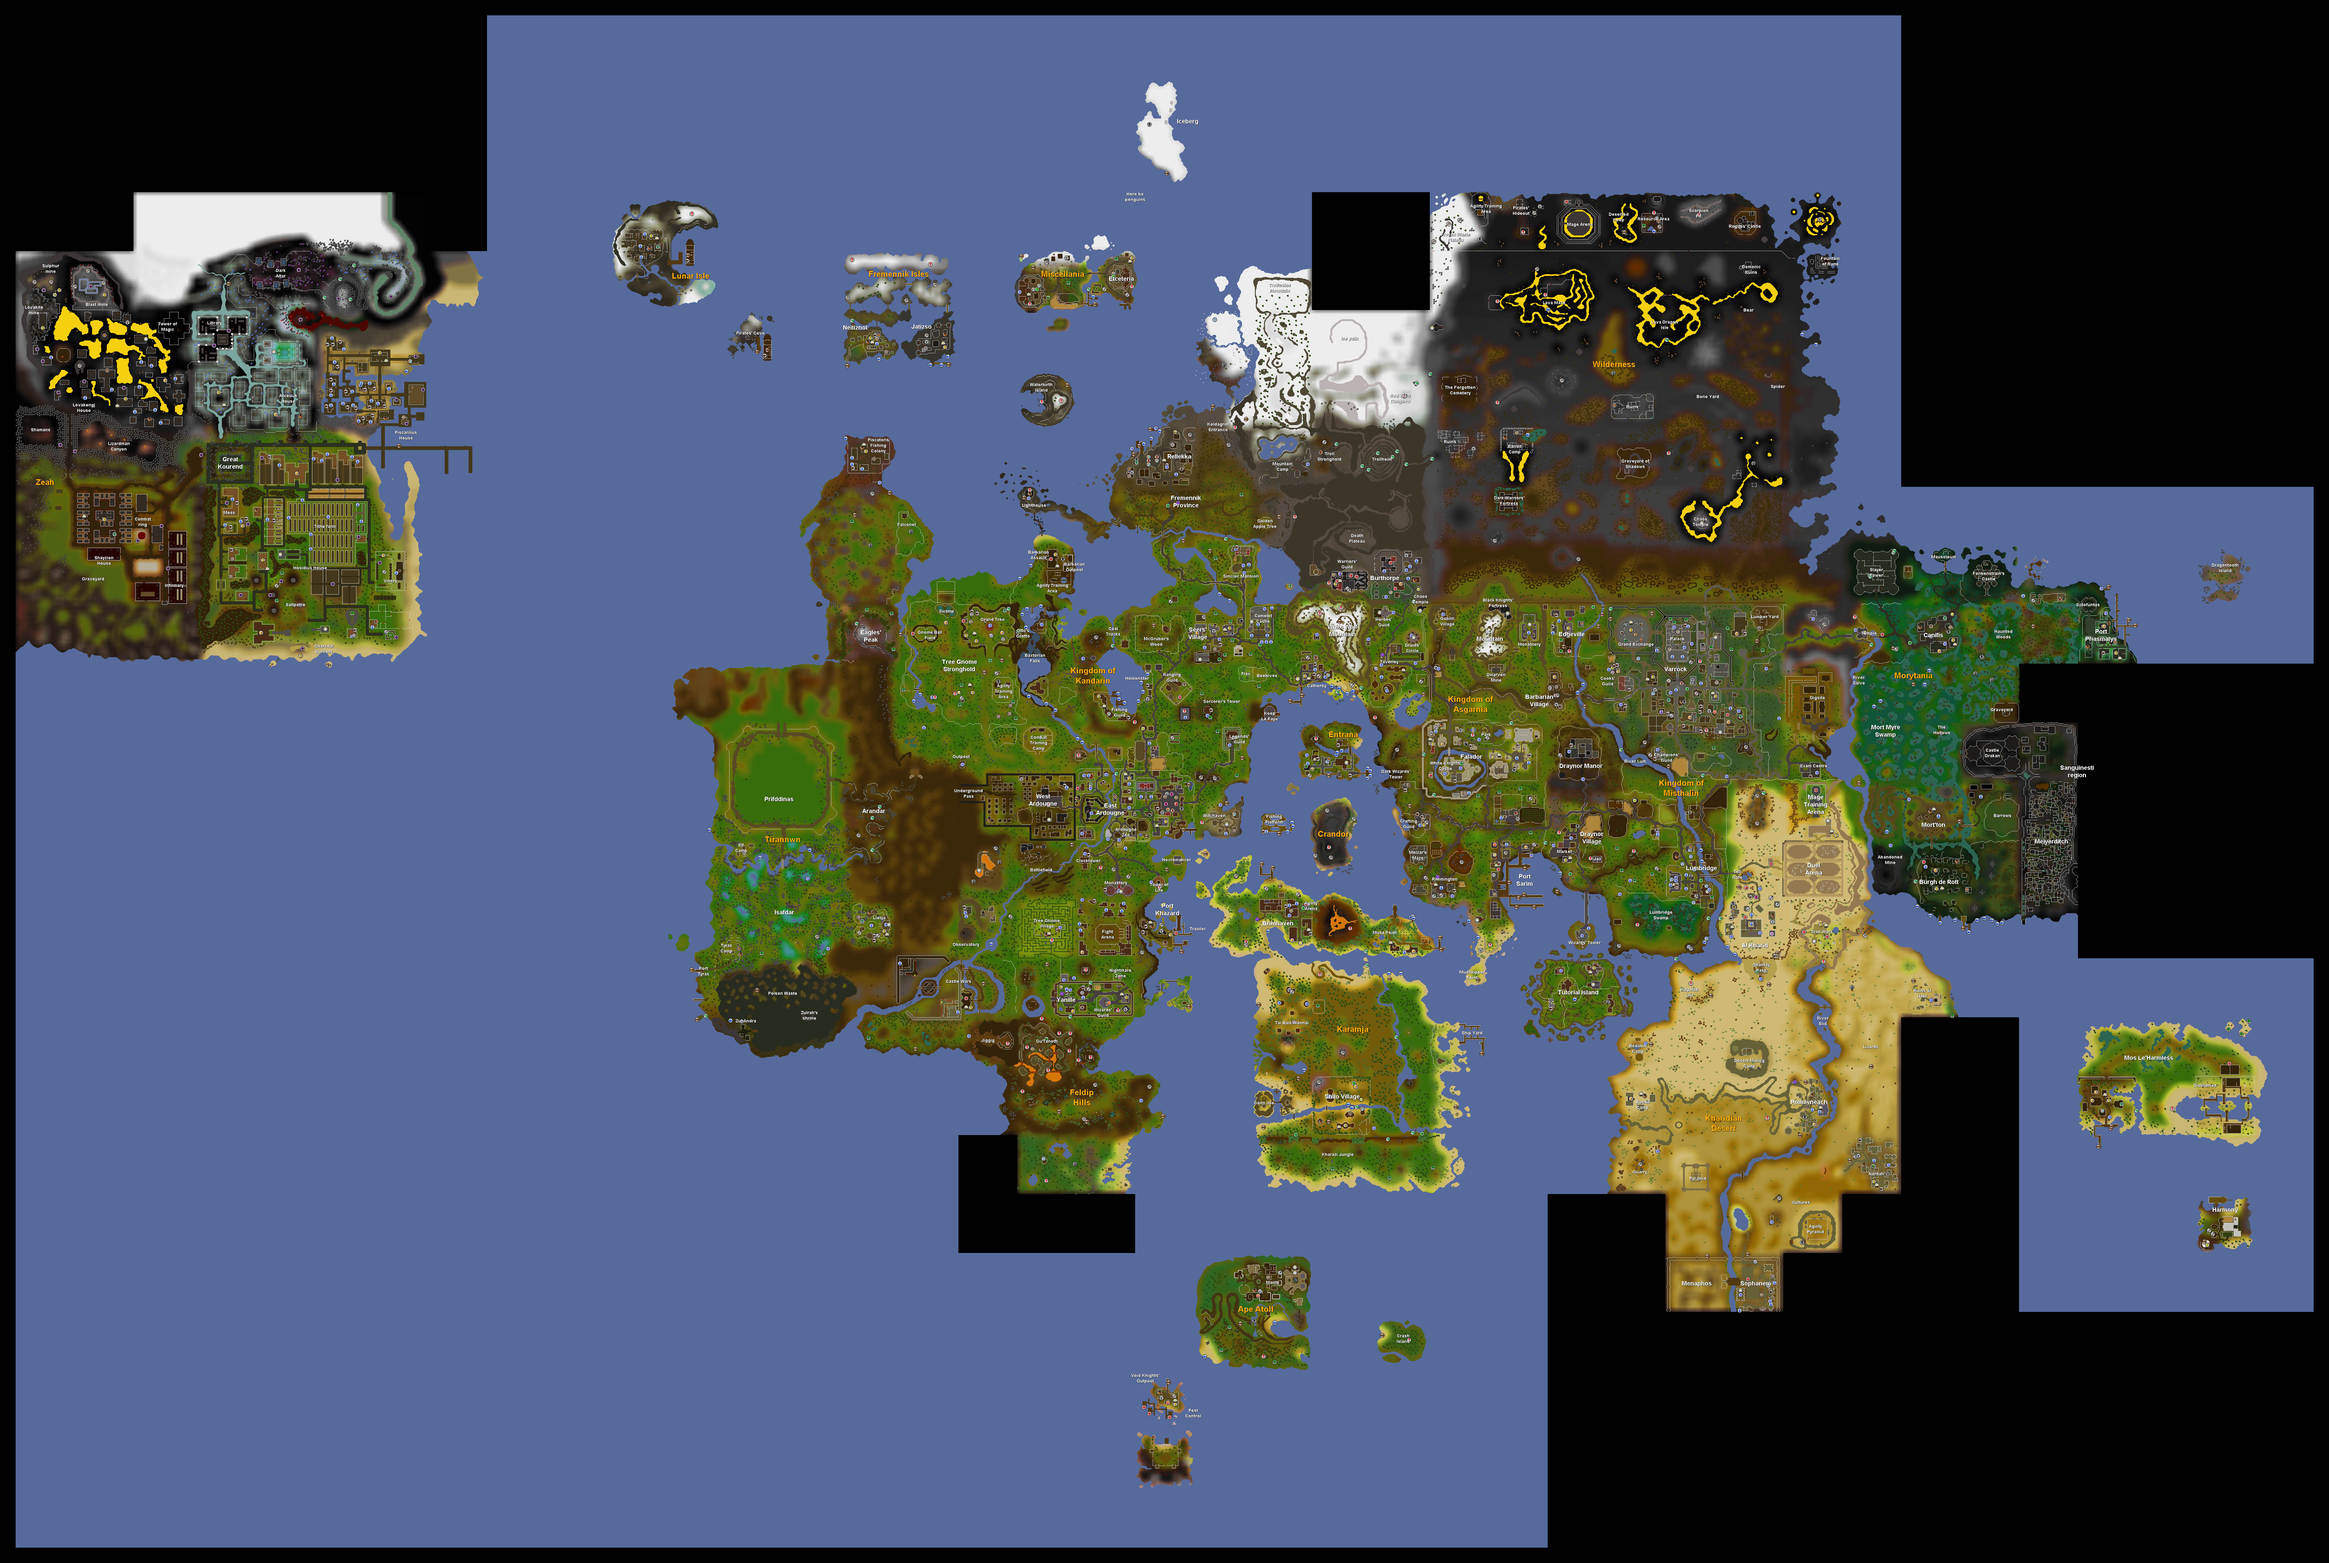
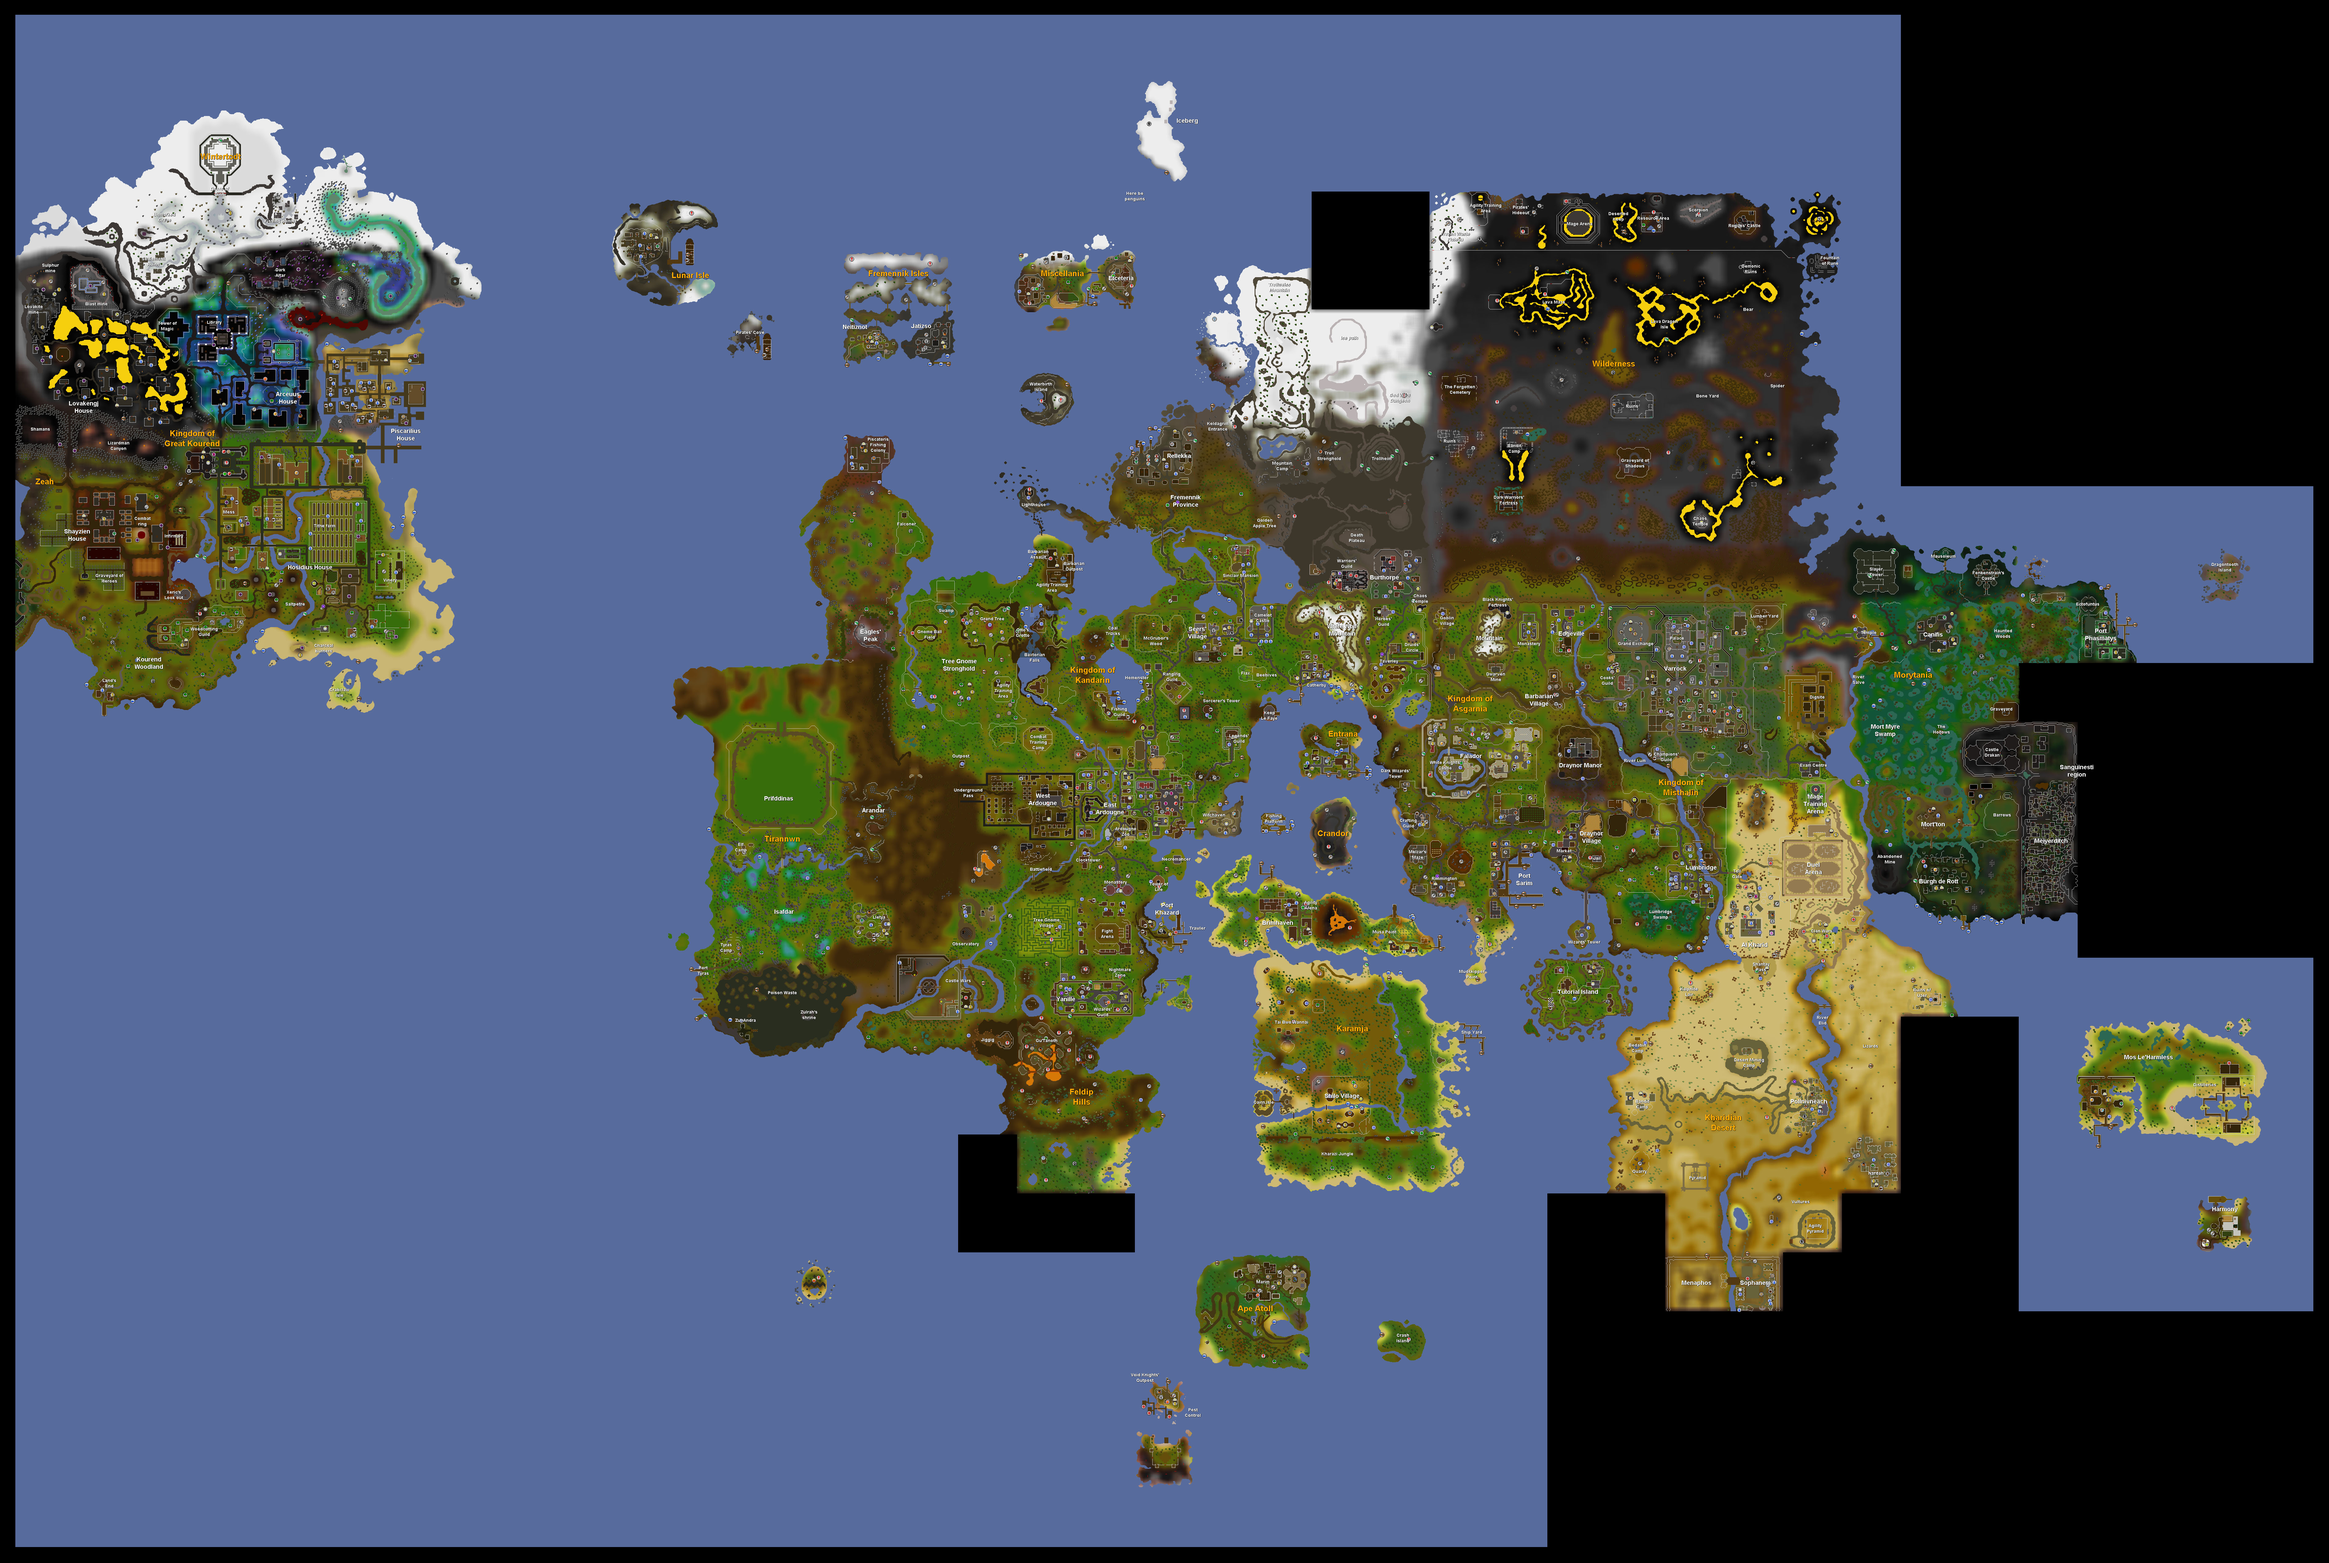
Updated the worldmap

diff --git a/app/src/main/java/com/infonuascape/osrshelper/views/HiscoresDialogFragment.java b/app/src/main/java/com/infonuascape/osrshelper/views/HiscoresDialogFragment.java
@@ -2,6 +2,7 @@ package com.infonuascape.osrshelper.views;
 
 import java.text.NumberFormat;
 
+import android.annotation.SuppressLint;
 import android.app.Dialog;
 import android.app.DialogFragment;
 import android.os.Bundle;
@@ -22,34 +23,35 @@ import com.infonuascape.osrshelper.utils.SkillsEnum.SkillType;
 public class HiscoresDialogFragment extends DialogFragment implements OnClickListener  {
 	private Skill skill;
 
+	public HiscoresDialogFragment() {
+	}
+
+	@SuppressLint("ValidFragment")
 	public HiscoresDialogFragment(Skill skill){
 		this.skill = skill;
 	}
 
-	/**
-	 * The system calls this to get the DialogFragment's layout, regardless of
-	 * whether it's being displayed as a dialog or an embedded fragment.
-	 */
 	@Override
 	public View onCreateView(LayoutInflater inflater, ViewGroup container, Bundle savedInstanceState) {
-		// Inflate the layout to use as dialog or embedded fragment
 		View v = inflater.inflate(R.layout.hiscores_dialog, container, false);
 
 		v.findViewById(R.id.container).setOnClickListener(this);
 		v.findViewById(R.id.dialog_container).setOnClickListener(this);
 
-		((TextView) v.findViewById(R.id.skill_name)).setText(skill.getSkillType().toString());
-		((TextView) v.findViewById(R.id.skill_name)).setCompoundDrawablesWithIntrinsicBounds(skill.getDrawableInt(), 0, 0, 0);
+		if(skill != null) {
+			((TextView) v.findViewById(R.id.skill_name)).setText(skill.getSkillType().toString());
+			((TextView) v.findViewById(R.id.skill_name)).setCompoundDrawablesWithIntrinsicBounds(skill.getDrawableInt(), 0, 0, 0);
 
 
-		((TextView) v.findViewById(R.id.skill_lvl)).setText(getString(R.string.level) + " : " + skill.getLevel());
-		((TextView) v.findViewById(R.id.skill_exp)).setText(getString(R.string.xp) + " : " +  NumberFormat.getInstance().format(skill.getExperience()));
-		if(skill.getSkillType() != SkillType.Overall && skill.getLevel() != 99){
-			((TextView) v.findViewById(R.id.skill_exp_to_lvl)).setText(getString(R.string.xp_to_lvl) + " : " +  NumberFormat.getInstance().format(Utils.getXPToLvl(skill.getLevel() + 1) - skill.getExperience()));
-		} else{
-			((TextView) v.findViewById(R.id.skill_exp_to_lvl)).setText("");
+			((TextView) v.findViewById(R.id.skill_lvl)).setText(getString(R.string.level) + " : " + skill.getLevel());
+			((TextView) v.findViewById(R.id.skill_exp)).setText(getString(R.string.xp) + " : " + NumberFormat.getInstance().format(skill.getExperience()));
+			if (skill.getSkillType() != SkillType.Overall && skill.getLevel() != 99) {
+				((TextView) v.findViewById(R.id.skill_exp_to_lvl)).setText(getString(R.string.xp_to_lvl) + " : " + NumberFormat.getInstance().format(Utils.getXPToLvl(skill.getLevel() + 1) - skill.getExperience()));
+			} else {
+				((TextView) v.findViewById(R.id.skill_exp_to_lvl)).setText("");
+			}
 		}
-		
+
 		return v;
 	}
 
@@ -66,7 +68,6 @@ public class HiscoresDialogFragment extends DialogFragment implements OnClickLis
 		v2.startAnimation(anim);
 	}
 
-	/** The system calls this only when creating the layout in a dialog. */
 	@Override
 	public Dialog onCreateDialog(Bundle savedInstanceState) {
 		Dialog dialog = super.onCreateDialog(savedInstanceState);

diff --git a/app/src/main/java/com/infonuascape/osrshelper/utils/Utils.java b/app/src/main/java/com/infonuascape/osrshelper/utils/Utils.java
@@ -193,6 +193,7 @@ public class Utils {
 		poi.add(new PointOfInterest("Sophanem", new Point(ZEAH_OFFSET_X + 3945, 4325 + ZEAH_OFFSET_Y)));
 		poi.add(new PointOfInterest("Tai Bwo Wannai", new Point(ZEAH_OFFSET_X + 2430, 3470 + ZEAH_OFFSET_Y)));
 		poi.add(new PointOfInterest("Taverley", new Point(ZEAH_OFFSET_X + 2750, 2335 + ZEAH_OFFSET_Y)));
+		poi.add(new PointOfInterest("Tirannwn", new Point(2551, 2725)));
 		poi.add(new PointOfInterest("Tutorial Island", new Point(ZEAH_OFFSET_X + 3370, 3370 + ZEAH_OFFSET_Y)));
 		poi.add(new PointOfInterest("Varrock", new Point(ZEAH_OFFSET_X + 3685, 2355 + ZEAH_OFFSET_Y)));
 		poi.add(new PointOfInterest("Waterbirth Island", new Point(ZEAH_OFFSET_X + 1645, 1440 + ZEAH_OFFSET_Y)));
@@ -203,6 +204,7 @@ public class Utils {
 		poi.add(new PointOfInterest("Zeah's Lovakengj House", new Point(275, 1185)));
 		poi.add(new PointOfInterest("Zeah's Piscarilius House", new Point(1236, 1286)));
 		poi.add(new PointOfInterest("Zeah's Shayzien House", new Point(380, 1777)));
+		poi.add(new PointOfInterest("Zeah's Wintertodt", new Point(720, 512)));
 		
 		return poi;
 	}
